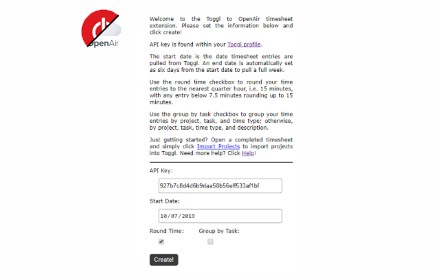
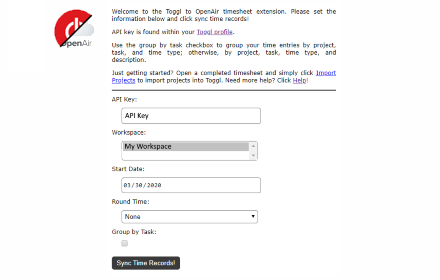
Added billable only rounding support

Changed region(s): [[0.1182, 0.0286, 0.7682, 0.9714], [0.5909, 0.6857, 0.6205, 0.7143]]

diff --git a/popup.html b/popup.html
@@ -4,7 +4,7 @@
         <style>
             body {
                 width: 460px;
-                height: 570px;
+                height: 535px;
                 font-family: "Verdana", sans-serif;
                 padding: 0px 10px 15px 10px;
                 margin: 0px 0px 0px 0px;
@@ -73,7 +73,7 @@
             }
 
             input, select {
-                width: 270px;
+                width: 280px;
                 border-radius: 5px;
                 border: solid 1px #7F7F7F;
                 margin: 10px 20px;
@@ -110,9 +110,6 @@
     <body>
         <p>Welcome to the Toggl to OpenAir timesheet extension.  Please set the information below and click sync time records!</p>
         <p>API key is found within your <a href="https://toggl.com/app/profile" target="_blank">Toggl profile</a>.</p>
-        <p>The start date is the date timesheet entries are pulled from Toggl.  An end date is automatically set as six days from the start
-        date to pull a full week.</p>
-        <p>Use the round time checkbox to round your time entries to the nearest quarter hour, i.e. 15 minutes, with any entry below 7.5 minutes rounding up to 15 minutes.</p>
         <p>Use the group by task checkbox to group your time entries by project, task, and time type; otherwise, by project, task, time type, and description.</p>
         <p>Just getting started? Open a completed timesheet and simply click <a id="importProjects" href="#">Import Projects</a> 
             to import projects into Toggl. Need more help?  Click <a href="https://chrome.google.com/webstore/detail/toggl-to-openair-timeshee/gejgfldgookgefmbfkokffldlklbekgg">Help</a>!</p>
@@ -124,11 +121,13 @@
             </select>
             <label for="startDate">Start Date:</label>
             <input id="startDate" type="date">
+            <label for="roundTime">Round Time:</label>
+            <select id="roundTime" placeholder="Round Time">
+                <option value="0">All time (nearest 15 mins)</option>
+                <option value="1">Billable only (round up to nearest 15 mins)</option>
+                <option value="2">None</option>
+            </select>
             <div class="group">
-                <div>
-                    <label for="roundTime">Round Time:</label>
-                    <input id="roundTime" class="checkbox" placeholder="Round Time" type="checkbox">
-                </div>
                 <div>
                     <label for="groupByTask">Group by Task:</label>
                     <input id="groupByTask" class="checkbox" placeholder="Group by Task" type="checkbox">

diff --git a/contentscript.js b/contentscript.js
@@ -1,3 +1,5 @@
+var roundTimeEnum = { all: 0, billable: 1, none: 2 };
+
 var errors;
 var errorCount;
 function setError(msg) {
@@ -122,12 +124,12 @@ function deleteDaysTimeEntries(event) {
     }, 500);
 }
 
-function roundDuration(duration, roundTime) {
+function roundDuration(duration, isBillable, roundTime) {
     let roundDecimal = function (value, precision) {
         return Number(Math.round(value + 'e'+ precision) + 'e-' + precision);
     };
 
-    if (roundTime === true) {
+    if (roundTime === roundTimeEnum.all) {
         // Automatically round anything below .125 to .25 -- mostly need for billable time
         if ((duration > 0.000000) && (duration < 0.125000)) {
             return 0.250000;
@@ -139,6 +141,11 @@ function roundDuration(duration, roundTime) {
                 return roundDecimal(duration - overage, 2);
             }
         }
+    } else if ((roundTime === roundTimeEnum.billable) && isBillable) {
+        // Always round up for billable time
+        let overage = duration % 0.25000;
+
+        return roundDecimal(duration + (0.25000 - overage), 2);
     } else {
         return roundDecimal(duration, 2);
     }
@@ -326,7 +333,7 @@ function createTimesheet(timesheetData, roundTime) {
 
         for (let dateKey in projectTaskEntries) {
             let dateEntry = projectTaskEntries[dateKey];
-            let roundedDuration = roundDuration(dateEntry.dur, roundTime);
+            let roundedDuration = roundDuration(dateEntry.dur, dateEntry.is_billable, roundTime);
             if (roundedDuration <= 0.0) {
                 console.log("Skipping => ", dateEntry.start, dateEntry.client, dateEntry.project, dateEntry.description);
             } else {

diff --git a/popup.js b/popup.js
@@ -1,3 +1,5 @@
+var roundTimeEnum = { all: 0, billable: 1, none: 2 };
+
 var cancellationToken;
 
 function startPromiseTransaction() {
@@ -72,13 +74,20 @@ function handlePromiseTransaction(work) {
     let roundTimeInput = document.getElementById("roundTime");
     roundTimeInput.addEventListener("change", function () {
         chrome.storage.sync.set({
-            roundTime: roundTime.checked || false
+            roundTime: roundTimeInput.options[roundTimeInput.selectedIndex].value
         });
     });
 
     chrome.storage.sync.get("roundTime", function (data) {
-        let roundTimeValue = data.roundTime || false;
-        roundTimeInput.checked = roundTimeValue;
+        let roundTimeValue = "";
+
+        if (typeof(data.roundTime) === "boolean") {
+            roundTimeValue = data.roundTime ? roundTimeEnum.all : roundTimeEnum.none;
+        } else {
+            roundTimeValue = data.roundTime || roundTimeEnum.none;
+        }
+
+        roundTimeInput.selectedIndex = roundTimeValue;
     });
 })();
 
@@ -190,7 +199,7 @@ function handlePromiseTransaction(work) {
                 let aggregatedTimesheetData = aggregateTimesheetData(timesheetData, groupByTask, timeEntryHandler.getDuration);
 
                 let roundTimeInput = document.getElementById("roundTime");
-                let roundTime = roundTimeInput.checked;
+                let roundTime = roundTimeInput.selectedIndex;
 
                 return sendActionToContentScript("loadTimesheetData", { "timesheetData": aggregatedTimesheetData, "roundTime": roundTime, "groupByTask": groupByTask });
             })).then(handlePromiseTransaction(function (response) {

diff --git a/README.md b/README.md
@@ -21,8 +21,12 @@ This requires the following to be useful:
 3) Click the TogglToOpenAir icon in the toolbar
 4) Go to Toggl to get the Toggl API key--this can be found at the bottom of the [Toggl Profile](https://toggl.com/app/profile)
    - Copy and paste the API key into the appropriate textbox in the Chrome Extension
-5) Specify the start date--by default it is the first date without time entries in a timesheet
-6) Specify if time entries should be rounded to the nearest quarter hour, i.e. 15 minutes--by default, rounding is off
-7) Specify if time entries should be grouped by task or description--by default, group by description
-8) Click the *Create* button
-9) Review any errors and verify the results
+5) Choose one or more workspaces from which time is to be added from Toggl
+6) Specify the start date--by default it is the first date without time entries in a timesheet
+7) Specify how time entries should be rounded--by default, rounding is _None_:
+   - All:  all entries are rounded to the nearest quarter hour, i.e. 15 minutes, with any time less than 15 minutes being rounded up
+   - Billable only: all billable entries are rounded up to the nearest quarter hour
+   - None: time is not rounded
+8) Specify if time entries should be grouped by task or description--by default, group by description
+9) Click the *Sync Time Records* button
+10) Review any errors and verify the results
